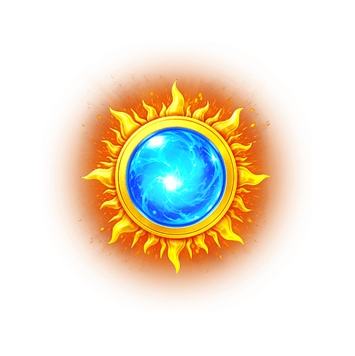
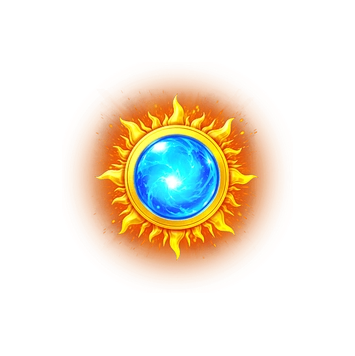
Reduce all Helios sun symbols consistently

diff --git a/themes/helios-triple-sun.js b/themes/helios-triple-sun.js
@@ -1,1 +1,1 @@
-window.SLOT_GAME_CONFIG = {"schemaVersion":1,"id":"helios-triple-sun-preview","assets":{"frame":{"portrait":"assets/helios-triple-sun/frame.webp?v=helios-preview-2","fallback":"assets/helios-triple-sun/frame.webp?v=helios-preview-2"},"loading":"assets/helios-triple-sun/loading.webp?v=helios-preview-2","spin":{"normal":"assets/helios-triple-sun/spin-normal.webp?v=helios-preview-1","pressed":"assets/helios-triple-sun/spin-pressed.webp?v=helios-preview-1"},"indicators":{"balance":"assets/helios-triple-sun/transparent.webp?v=helios-preview-1","bet":"assets/helios-triple-sun/transparent.webp?v=helios-preview-1","lines":"assets/helios-triple-sun/transparent.webp?v=helios-preview-1"},"announcementFrame":"assets/helios-triple-sun/transparent.webp?v=helios-preview-1","bigWin":"assets/helios-triple-sun/logo.webp?v=helios-preview-1","lowWin":"assets/helios-triple-sun/logo.webp?v=helios-preview-1","paytableFrame":"assets/helios-triple-sun/transparent.webp?v=helios-preview-1","winFrames":[{"key":"helios-gold-win","src":"assets/helios-triple-sun/win-glow.webp?v=helios-preview-1"}]},"symbols":[{"key":"blue-gem","label":"Gema azul","asset":"assets/helios-triple-sun/blue-gem.webp?v=helios-preview-1"},{"key":"green-gem","label":"Gema verde","asset":"assets/helios-triple-sun/green-gem.webp?v=helios-preview-1"},{"key":"purple-gem","label":"Gema violeta","asset":"assets/helios-triple-sun/purple-gem.webp?v=helios-preview-1"},{"key":"orange-gem","label":"Gema ámbar","asset":"assets/helios-triple-sun/orange-gem.webp?v=helios-preview-1"},{"key":"heart","label":"Corazón","asset":"assets/helios-triple-sun/heart.webp?v=helios-preview-1"},{"key":"blue-ring","label":"Anillo celeste","asset":"assets/helios-triple-sun/blue-ring.webp?v=helios-preview-1"},{"key":"gold-coin","label":"Moneda solar","asset":"assets/helios-triple-sun/gold-coin.webp?v=helios-preview-1"},{"key":"crown-coin","label":"Corona solar","asset":"assets/helios-triple-sun/crown-coin.webp?v=helios-preview-1"},{"key":"chalice","label":"Cáliz","asset":"assets/helios-triple-sun/chalice.webp?v=helios-preview-2"},{"key":"goddess","label":"Diosa solar","asset":"assets/helios-triple-sun/goddess.webp?v=helios-preview-1"},{"key":"wild-sun","label":"WILD solar","asset":"assets/helios-triple-sun/wild-sun.webp?v=helios-preview-1"},{"key":"scatter-red","label":"Sol rojo","asset":"assets/helios-triple-sun/scatter-red.webp?v=helios-preview-3"},{"key":"scatter-yellow","label":"Sol dorado","asset":"assets/helios-triple-sun/scatter-yellow.webp?v=helios-preview-3"},{"key":"scatter-blue","label":"Sol azul","asset":"assets/helios-triple-sun/scatter-blue.webp?v=helios-preview-3"},{"key":"bonus-crown","label":"BONUS","asset":"assets/helios-triple-sun/bonus-crown.webp?v=helios-preview-1"}],"visual":{"symbolScale":0.94,"symbolScaleY":1,"symbolFit":"cell-width","reelPerspective":0},"defaults":{"balance":1000,"bet":20,"jackpot":0,"lines":20,"minBet":10,"maxBet":500,"betStep":10,"minLines":5,"maxLines":20,"lineStep":5,"jackpotContributionRate":0,"minimumJackpotContribution":0,"bigWinBetMultiplier":10,"lowWinBetMultiplier":3,"freeSpins":0},"specialSymbols":{"wild":"wild-sun","scatters":["scatter-red","scatter-yellow","scatter-blue"],"bonus":"bonus-crown","animatedWin":"goddess"},"rules":{"cols":5,"rows":3,"paylines":[[1,1,1,1,1],[0,0,0,0,0],[2,2,2,2,2],[0,1,2,1,0],[2,1,0,1,2],[0,0,1,2,2],[2,2,1,0,0],[1,0,0,0,1],[1,2,2,2,1],[1,0,1,0,1],[1,2,1,2,1],[0,1,1,1,0],[2,1,1,1,2],[0,1,0,1,0],[2,1,2,1,2],[1,1,0,1,1],[1,1,2,1,1],[0,0,2,0,0],[2,2,0,2,0],[0,2,0,2,0]],"lineColors":["#ffd166","#4cc9f0","#ef476f","#a78bfa","#06d6a0","#fb8500","#00b4d8","#f72585","#90be6d","#f9c74f","#43aa8b","#577590","#b5179e","#e63946","#52b788","#ffbe0b","#48cae4","#c77dff","#80ed99","#ff6b6b"],"symbolWeights":[95,95,90,90,90,85,70,60,50,45,40,20,20,20,20],"weightTotal":890,"paytableCounts":[3,4,5],"minimumMatch":3,"specialMinimumMatch":3,"paytable":{"0":{"3":0.8,"4":2,"5":8},"1":{"3":0.8,"4":2,"5":8},"2":{"3":0.8,"4":2,"5":8},"3":{"3":0.8,"4":2,"5":8},"4":{"3":0.8,"4":2,"5":8},"5":{"3":1.2,"4":4,"5":16},"6":{"3":1.5,"4":5,"5":20},"7":{"3":2,"4":8,"5":32},"8":{"3":2.5,"4":10,"5":40},"9":{"3":3,"4":12,"5":60},"10":{"3":5,"4":20,"5":100},"11":{"3":0.2,"4":1,"5":4},"12":{"3":0.2,"4":1,"5":4},"13":{"3":0.2,"4":1,"5":4}},"bonusFreeSpins":{"3":5,"4":8,"5":15},"paytableOrder":[0,1,2,3,4,5,6,7,8,9,10,11,12,13,14],"payoutScale":1},"features":{"allowFreeSpinRetrigger":false,"keyboardControls":true,"turboSpin":{"multiplier":2.2}},"ui":{"name":"Helios Triple Sun · prueba inicial","numberLocale":"es-AR","scatterPaytableLabel":"{label}","freeSpinsSuffix":"giros","paytableMultiplierSuffix":"×","paytableMultiplierPrecision":2,"announcementAlt":"Helios Triple Sun","frameAlt":"Fondo Helios Triple Sun","bigWinAlt":"Premio grande de prueba","lowWinAlt":"Premio de prueba","paytableBrand":"HELIOS TRIPLE SUN · PROTOTIPO","paytableTitle":"Tabla provisional","paytableSubtitle":"20 líneas · premios de demostración","paytableSymbolHeader":"Símbolo","rulesTitle":"REGLAS DE PRUEBA","spinLabel":"Girar","menuLabel":"Premios","loadingLabel":"Cargando Helios","lowWinTitle":"¡PREMIO!","labels":{"balance":"SALDO","bet":"APUESTA","lines":"LÍNEAS","win":"PREMIO","jackpot":"JACKPOT"},"messages":{"autoSpin":"AUTO","stopAutoSpin":"PARAR","stopAutoSpinOverlay":"PARAR AUTO","insufficientBalance":"SALDO INSUFICIENTE","bonusAward":"BONUS +{awarded} GIROS GRATIS\nRESTANTES: {remaining}","scatterAward":"SCATTER +{amount}\nPREMIO TOTAL: {total}","prize":"PREMIO: {amount}"},"paytableRules":["PROTOTIPO: premios y probabilidades provisionales, no son los del proveedor.","Los premios de línea cuentan de izquierda a derecha en 20 líneas configuradas para esta prueba.","Los tres soles de colores se cuentan juntos como SCATTER en esta primera versión.","3, 4 o 5 BONUS otorgan 5, 8 o 15 giros gratis de prueba.","Las cascadas originales y la matemática/RTP oficial todavía no están implementados."]},"colors":{"accent":"#ffd56b","glow":"#ff9d28","highlight":"#fff4cb","panel":"#180c38","particlePalette":["#ffd66b","#ffad32","#fff3c6","#7ddfff","#db77ff"],"lowWinParticlePalette":["#ffd34d","#fff0a8","#d89039","#fff"],"winningTint":"#fff3c6"}};
+window.SLOT_GAME_CONFIG = {"schemaVersion":1,"id":"helios-triple-sun-preview","assets":{"frame":{"portrait":"assets/helios-triple-sun/frame.webp?v=helios-preview-2","fallback":"assets/helios-triple-sun/frame.webp?v=helios-preview-2"},"loading":"assets/helios-triple-sun/loading.webp?v=helios-preview-2","spin":{"normal":"assets/helios-triple-sun/spin-normal.webp?v=helios-preview-1","pressed":"assets/helios-triple-sun/spin-pressed.webp?v=helios-preview-1"},"indicators":{"balance":"assets/helios-triple-sun/transparent.webp?v=helios-preview-1","bet":"assets/helios-triple-sun/transparent.webp?v=helios-preview-1","lines":"assets/helios-triple-sun/transparent.webp?v=helios-preview-1"},"announcementFrame":"assets/helios-triple-sun/transparent.webp?v=helios-preview-1","bigWin":"assets/helios-triple-sun/logo.webp?v=helios-preview-1","lowWin":"assets/helios-triple-sun/logo.webp?v=helios-preview-1","paytableFrame":"assets/helios-triple-sun/transparent.webp?v=helios-preview-1","winFrames":[{"key":"helios-gold-win","src":"assets/helios-triple-sun/win-glow.webp?v=helios-preview-1"}]},"symbols":[{"key":"blue-gem","label":"Gema azul","asset":"assets/helios-triple-sun/blue-gem.webp?v=helios-preview-1"},{"key":"green-gem","label":"Gema verde","asset":"assets/helios-triple-sun/green-gem.webp?v=helios-preview-1"},{"key":"purple-gem","label":"Gema violeta","asset":"assets/helios-triple-sun/purple-gem.webp?v=helios-preview-1"},{"key":"orange-gem","label":"Gema ámbar","asset":"assets/helios-triple-sun/orange-gem.webp?v=helios-preview-1"},{"key":"heart","label":"Corazón","asset":"assets/helios-triple-sun/heart.webp?v=helios-preview-1"},{"key":"blue-ring","label":"Anillo celeste","asset":"assets/helios-triple-sun/blue-ring.webp?v=helios-preview-1"},{"key":"gold-coin","label":"Moneda solar","asset":"assets/helios-triple-sun/gold-coin.webp?v=helios-preview-1"},{"key":"crown-coin","label":"Corona solar","asset":"assets/helios-triple-sun/crown-coin.webp?v=helios-preview-1"},{"key":"chalice","label":"Cáliz","asset":"assets/helios-triple-sun/chalice.webp?v=helios-preview-2"},{"key":"goddess","label":"Diosa solar","asset":"assets/helios-triple-sun/goddess.webp?v=helios-preview-1"},{"key":"wild-sun","label":"WILD solar","asset":"assets/helios-triple-sun/wild-sun.webp?v=helios-preview-2"},{"key":"scatter-red","label":"Sol rojo","asset":"assets/helios-triple-sun/scatter-red.webp?v=helios-preview-4"},{"key":"scatter-yellow","label":"Sol dorado","asset":"assets/helios-triple-sun/scatter-yellow.webp?v=helios-preview-4"},{"key":"scatter-blue","label":"Sol azul","asset":"assets/helios-triple-sun/scatter-blue.webp?v=helios-preview-4"},{"key":"bonus-crown","label":"BONUS","asset":"assets/helios-triple-sun/bonus-crown.webp?v=helios-preview-1"}],"visual":{"symbolScale":0.94,"symbolScaleY":1,"symbolFit":"cell-width","reelPerspective":0},"defaults":{"balance":1000,"bet":20,"jackpot":0,"lines":20,"minBet":10,"maxBet":500,"betStep":10,"minLines":5,"maxLines":20,"lineStep":5,"jackpotContributionRate":0,"minimumJackpotContribution":0,"bigWinBetMultiplier":10,"lowWinBetMultiplier":3,"freeSpins":0},"specialSymbols":{"wild":"wild-sun","scatters":["scatter-red","scatter-yellow","scatter-blue"],"bonus":"bonus-crown","animatedWin":"goddess"},"rules":{"cols":5,"rows":3,"paylines":[[1,1,1,1,1],[0,0,0,0,0],[2,2,2,2,2],[0,1,2,1,0],[2,1,0,1,2],[0,0,1,2,2],[2,2,1,0,0],[1,0,0,0,1],[1,2,2,2,1],[1,0,1,0,1],[1,2,1,2,1],[0,1,1,1,0],[2,1,1,1,2],[0,1,0,1,0],[2,1,2,1,2],[1,1,0,1,1],[1,1,2,1,1],[0,0,2,0,0],[2,2,0,2,0],[0,2,0,2,0]],"lineColors":["#ffd166","#4cc9f0","#ef476f","#a78bfa","#06d6a0","#fb8500","#00b4d8","#f72585","#90be6d","#f9c74f","#43aa8b","#577590","#b5179e","#e63946","#52b788","#ffbe0b","#48cae4","#c77dff","#80ed99","#ff6b6b"],"symbolWeights":[95,95,90,90,90,85,70,60,50,45,40,20,20,20,20],"weightTotal":890,"paytableCounts":[3,4,5],"minimumMatch":3,"specialMinimumMatch":3,"paytable":{"0":{"3":0.8,"4":2,"5":8},"1":{"3":0.8,"4":2,"5":8},"2":{"3":0.8,"4":2,"5":8},"3":{"3":0.8,"4":2,"5":8},"4":{"3":0.8,"4":2,"5":8},"5":{"3":1.2,"4":4,"5":16},"6":{"3":1.5,"4":5,"5":20},"7":{"3":2,"4":8,"5":32},"8":{"3":2.5,"4":10,"5":40},"9":{"3":3,"4":12,"5":60},"10":{"3":5,"4":20,"5":100},"11":{"3":0.2,"4":1,"5":4},"12":{"3":0.2,"4":1,"5":4},"13":{"3":0.2,"4":1,"5":4}},"bonusFreeSpins":{"3":5,"4":8,"5":15},"paytableOrder":[0,1,2,3,4,5,6,7,8,9,10,11,12,13,14],"payoutScale":1},"features":{"allowFreeSpinRetrigger":false,"keyboardControls":true,"turboSpin":{"multiplier":2.2}},"ui":{"name":"Helios Triple Sun · prueba inicial","numberLocale":"es-AR","scatterPaytableLabel":"{label}","freeSpinsSuffix":"giros","paytableMultiplierSuffix":"×","paytableMultiplierPrecision":2,"announcementAlt":"Helios Triple Sun","frameAlt":"Fondo Helios Triple Sun","bigWinAlt":"Premio grande de prueba","lowWinAlt":"Premio de prueba","paytableBrand":"HELIOS TRIPLE SUN · PROTOTIPO","paytableTitle":"Tabla provisional","paytableSubtitle":"20 líneas · premios de demostración","paytableSymbolHeader":"Símbolo","rulesTitle":"REGLAS DE PRUEBA","spinLabel":"Girar","menuLabel":"Premios","loadingLabel":"Cargando Helios","lowWinTitle":"¡PREMIO!","labels":{"balance":"SALDO","bet":"APUESTA","lines":"LÍNEAS","win":"PREMIO","jackpot":"JACKPOT"},"messages":{"autoSpin":"AUTO","stopAutoSpin":"PARAR","stopAutoSpinOverlay":"PARAR AUTO","insufficientBalance":"SALDO INSUFICIENTE","bonusAward":"BONUS +{awarded} GIROS GRATIS\nRESTANTES: {remaining}","scatterAward":"SCATTER +{amount}\nPREMIO TOTAL: {total}","prize":"PREMIO: {amount}"},"paytableRules":["PROTOTIPO: premios y probabilidades provisionales, no son los del proveedor.","Los premios de línea cuentan de izquierda a derecha en 20 líneas configuradas para esta prueba.","Los tres soles de colores se cuentan juntos como SCATTER en esta primera versión.","3, 4 o 5 BONUS otorgan 5, 8 o 15 giros gratis de prueba.","Las cascadas originales y la matemática/RTP oficial todavía no están implementados."]},"colors":{"accent":"#ffd56b","glow":"#ff9d28","highlight":"#fff4cb","panel":"#180c38","particlePalette":["#ffd66b","#ffad32","#fff3c6","#7ddfff","#db77ff"],"lowWinParticlePalette":["#ffd34d","#fff0a8","#d89039","#fff"],"winningTint":"#fff3c6"}};

diff --git a/helios-triple-sun.html b/helios-triple-sun.html
@@ -59,5 +59,5 @@ html[data-skin="helios"] #menu.menu{display:none!important;}
 </section></main>
 <button id="autoStopOverlay" class="auto-stop-overlay" type="button">PARAR AUTO</button>
 <div id="paytableModal" class="paytable-modal" aria-hidden="true"><div class="paytable-card"><button id="closePaytable" class="paytable-close" aria-label="Cerrar">×</button><div class="paytable-brand"></div><h2></h2><p class="paytable-subtitle"></p><table><thead><tr></tr></thead><tbody id="paytableRows"></tbody></table><div class="paytable-rules"><b></b></div></div></div>
-<script src="phaser.min.js?v=4.2.1"></script><script src="themes/helios-triple-sun.js?v=helios-preview-10"></script><script src="main.js?v=helios-engine-20261019-symbol-fit-4"></script>
+<script src="phaser.min.js?v=4.2.1"></script><script src="themes/helios-triple-sun.js?v=helios-preview-11"></script><script src="main.js?v=helios-engine-20261019-symbol-fit-4"></script>
 </body></html>
